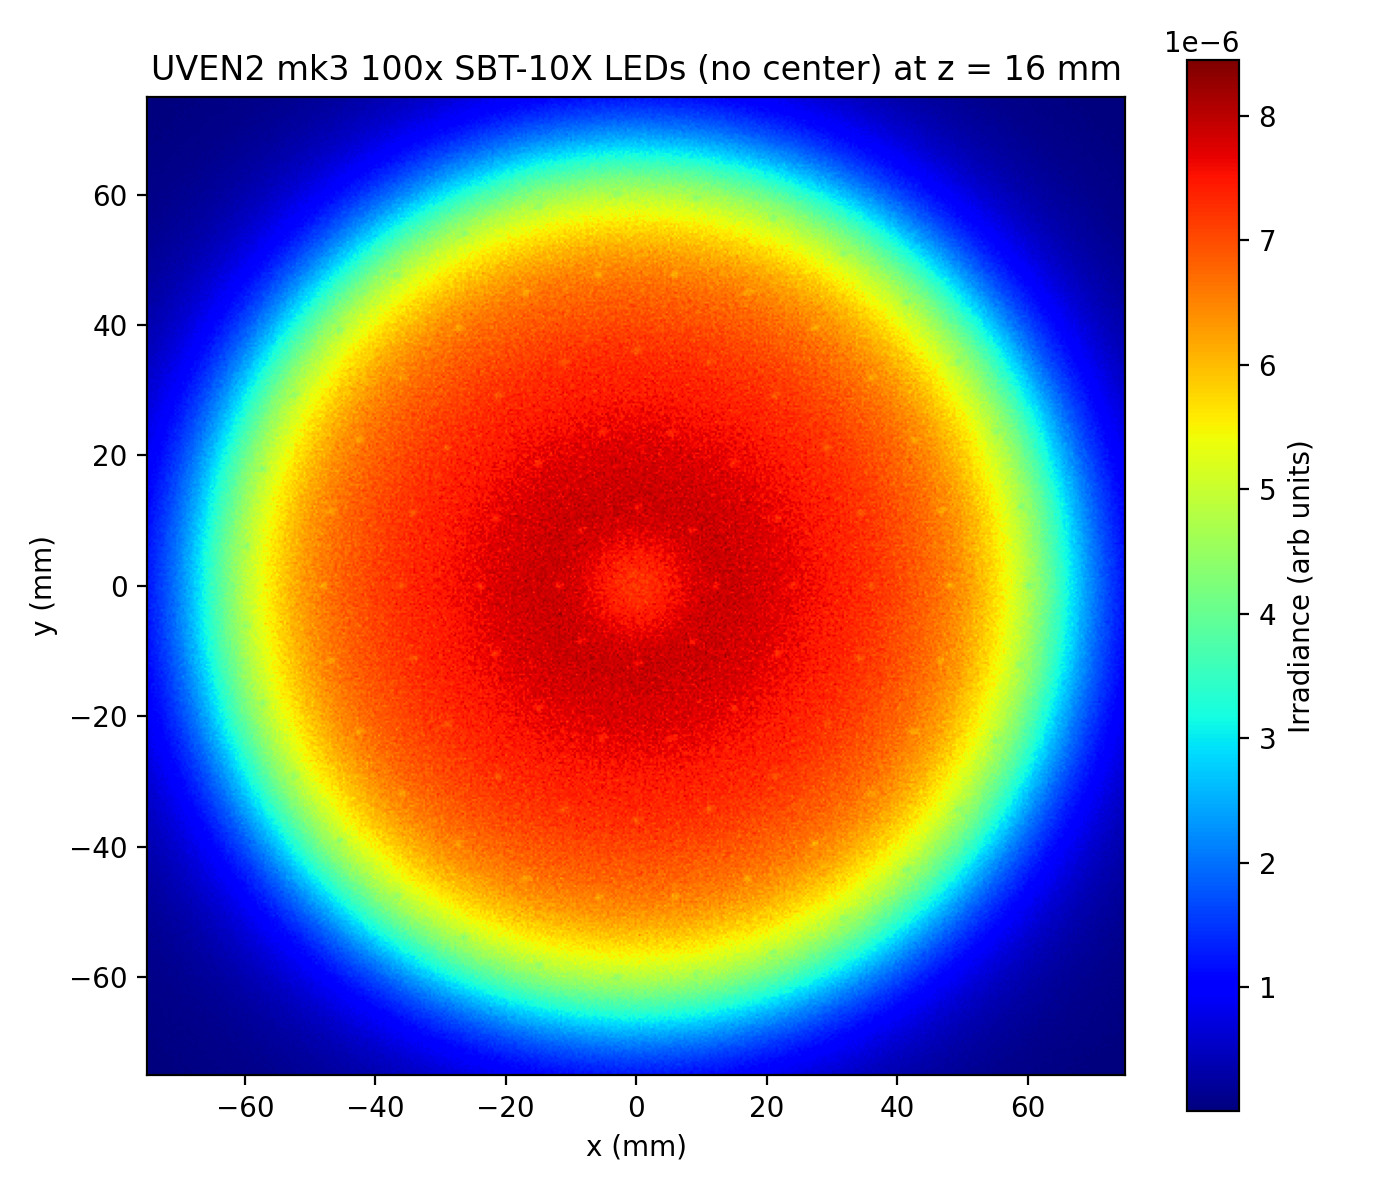
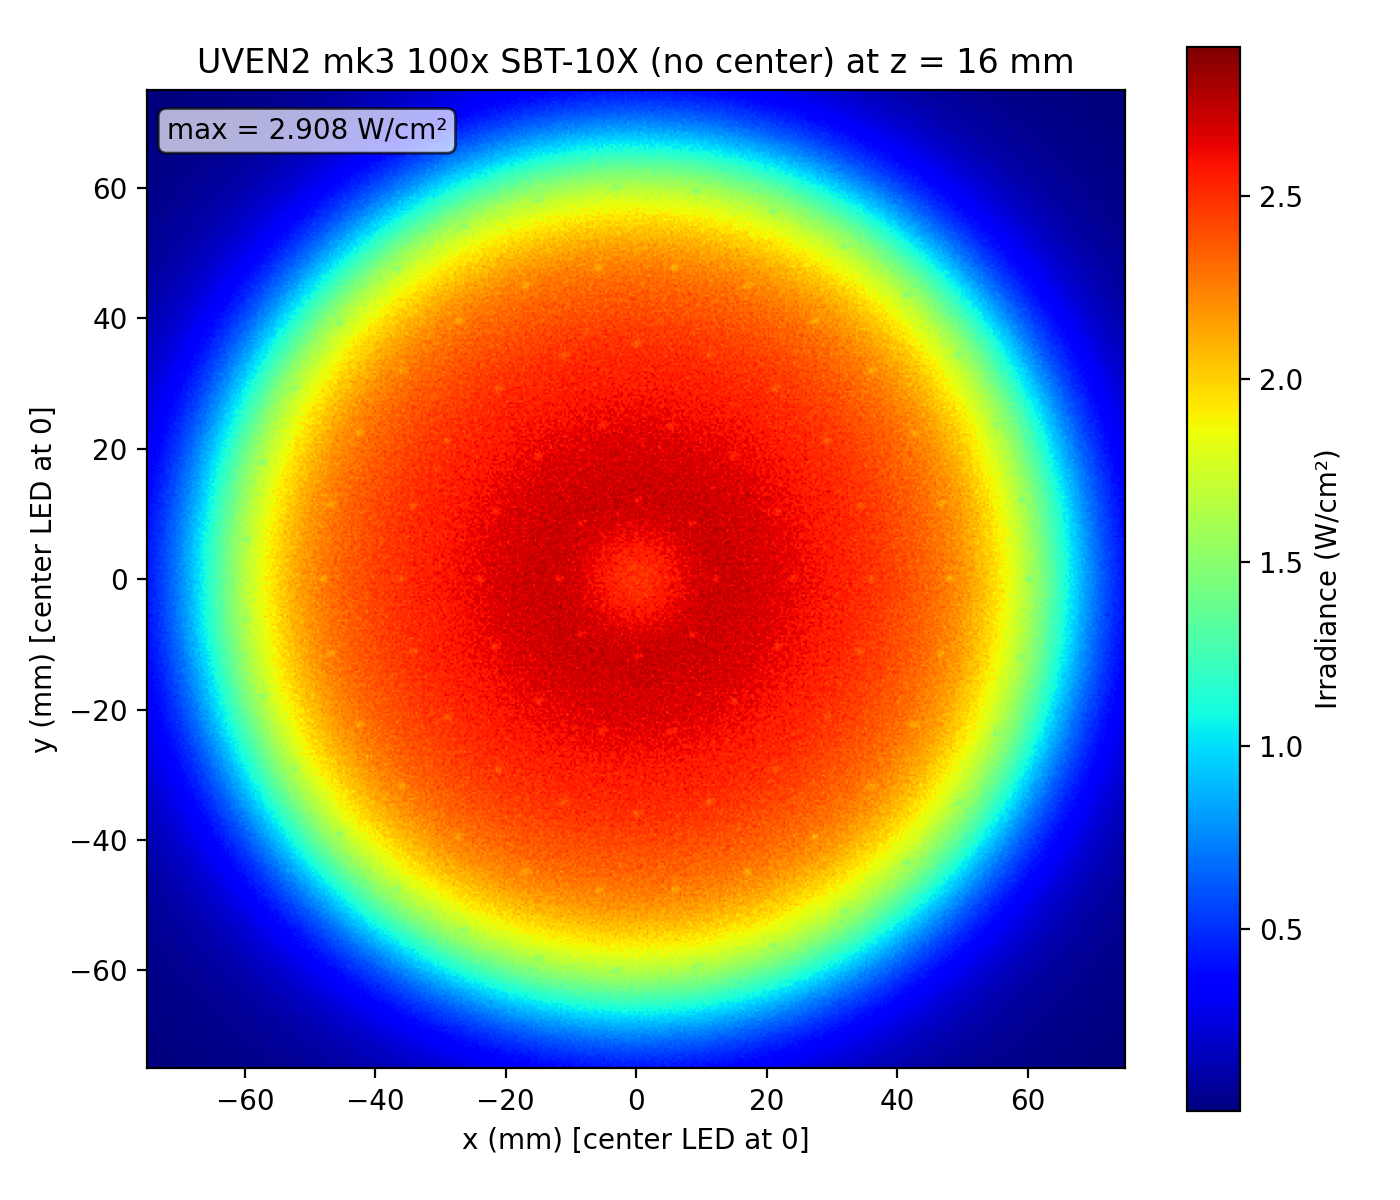
with absolut irradiance in W/cm^2 extracted from datasheet

diff --git a/src/light_distribution/sbt10x_zemax_ray_data_simulation_array.py b/src/light_distribution/sbt10x_zemax_ray_data_simulation_array.py
@@ -8,7 +8,14 @@ import matplotlib.pyplot as plt
 # -----------------------------
 # CONFIG
 # -----------------------------
-DISABLE_CENTER_LED = False  # <-- toggle this to enable/disable the center LED (ring 0)
+DISABLE_CENTER_LED = True  # toggle this to enable/disable the center LED (ring 0)
+
+# LED drive + radiometric power (365 nm version)
+LED_CURRENT_A = 2.15              # your drive current per LED
+LED_FLUX_1A_W_TYP = 1.6           # typical radiometric flux at 1 A from datasheet
+# Simple assumption: flux scales ~ linearly with current.
+# Change this if you want to use a different number (e.g. min 1.3 W or derated).
+LED_FLUX_PER_LED_W = LED_FLUX_1A_W_TYP * LED_CURRENT_A  # ≈ 3.44 W per LED at 2.15 A
 
 
 # -----------------------------
@@ -22,7 +29,6 @@ def generate_led_positions(disable_center_led=False):
     Optionally skip the center LED (ring_index == 0).
     """
 
-    # Same as in your KiCad script
     rings = {
         0: 1,
         1: 8,
@@ -76,6 +82,7 @@ def load_sdf(filename):
     Load a Zemax binary .SDF spectral ray file.
     Returns an array of shape (N, 8):
     [x, y, z, l, m, n, flux, wavelength]
+    flux column is initially in arbitrary units.
     """
     with open(filename, "rb") as f:
         header = f.read(8)
@@ -102,7 +109,8 @@ def load_sdf(filename):
             .format(number_of_rays, data.size)
         )
 
-    return data.reshape((-1, 8))
+    rays = data.reshape((-1, 8))
+    return rays
 
 
 def propagate_to_plane(rays, distance_mm):
@@ -144,10 +152,10 @@ def propagate_to_plane(rays, distance_mm):
 
 
 # -----------------------------
-# 3) Heatmap plotting + saving
+# 3) Heatmap plotting + saving (absolute irradiance)
 # -----------------------------
 
-def plot_and_save_heatmap(x, y, flux, distance_mm, bins=400,
+def plot_and_save_heatmap(x, y, flux_W, distance_mm, bins=400,
                           outfile_prefix="array_irradiance",
                           window_mm=150.0,
                           center_x_mm=100.0,
@@ -157,7 +165,8 @@ def plot_and_save_heatmap(x, y, flux, distance_mm, bins=400,
     recentered so that the center LED is at (0, 0).
 
     x, y are in mm in the original PCB coordinate system.
-    center_x_mm, center_y_mm define the center LED position in that system.
+    flux_W is in watts per ray.
+    Output is plotted in W/cm^2.
     """
 
     # Recenter: center LED goes to (0, 0)
@@ -170,27 +179,55 @@ def plot_and_save_heatmap(x, y, flux, distance_mm, bins=400,
     xmin, xmax = -half, half
     ymin, ymax = -half, half
 
-    H, xe, ye = np.histogram2d(
+    H_W, xe, ye = np.histogram2d(
         x_centered,
-        y_centered, bins=bins, range=[[xmin, xmax], [ymin, ymax]], weights=flux
+        y_centered,
+        bins=bins,
+        range=[[xmin, xmax], [ymin, ymax]],
+        weights=flux_W
     )
+
+    # Convert summed watts per bin -> irradiance
+    # Bin size in mm
+    dx = (xmax - xmin) / float(bins)
+    dy = (ymax - ymin) / float(bins)
+    area_mm2 = dx * dy
+
+    # W/mm^2
+    H_W_per_mm2 = H_W / area_mm2
+
+    # W/cm^2  (1 cm^2 = 100 mm^2)
+    H_W_per_cm2 = H_W_per_mm2 * 100.0
 
     fig, ax = plt.subplots(figsize=(7, 6))
     im = ax.imshow(
-        H.T,
+        H_W_per_cm2.T,
         origin="lower",
-        extent=[xe[0], xe[-1], ye[0], ye[-1]],
+        extent=[xmin, xmax, ymin, ymax],
         aspect="equal",
-        cmap="jet"  
+        cmap="jet"  # blue cold, red hot
     )
     cbar = fig.colorbar(im, ax=ax)
-    cbar.set_label("Irradiance (arb units)")
-    ax.set_xlabel("x (mm)")
-    ax.set_ylabel("y (mm)")
+    cbar.set_label("Irradiance (W/cm²)")
+    ax.set_xlabel("x (mm) [center LED at 0]")
+    ax.set_ylabel("y (mm) [center LED at 0]")
+
     if DISABLE_CENTER_LED:
-        ax.set_title("UVEN2 mk3 100x SBT-10X LEDs (no center) at z = {} mm".format(distance_mm))
+        title = "UVEN2 mk3 100x SBT-10X (no center) at z = {} mm"
     else:
-        ax.set_title("UVEN2 mk3 100x SBT-10X LEDs at z = {} mm".format(distance_mm))
+        title = "UVEN2 mk3 100x SBT-10X at z = {} mm"
+
+    ax.set_title(title.format(distance_mm))
+
+    # Optionally annotate max irradiance
+    max_irr = np.max(H_W_per_cm2)
+    ax.text(
+        0.02, 0.95,
+        "max = {:.3f} W/cm²".format(max_irr),
+        transform=ax.transAxes,
+        fontsize=10,
+        bbox=dict(boxstyle="round", facecolor="white", alpha=0.7)
+    )
 
     plt.tight_layout()
 
@@ -207,47 +244,56 @@ def plot_and_save_heatmap(x, y, flux, distance_mm, bins=400,
 # -----------------------------
 
 def main():
-    # Path to your single LED Zemax SDF file
-    sdf_path = "SBT-10_1000mA_#1-20200526-1_175000_5000000Rays_ZEMAX.sdf"  # change if needed
+    # download zemax sdf from: https://download.luminus.com/design-files/uv/SBT-10X/SBT-10X_Zx.zip
+    # Path to your single LED Zemax SDF file (generated at 1 A)
+    sdf_path = "SBT-10_1000mA_#1-20200526-1_175000_5000000Rays_ZEMAX.sdf"
 
     # 1) LED positions from the KiCad ring script
     led_positions = generate_led_positions(disable_center_led=DISABLE_CENTER_LED)
     print("Number of LEDs used in simulation:", len(led_positions))
 
-    # 2) Load single LED ray data once
+    # 2) Load single LED ray data once (flux still in arbitrary units)
     rays = load_sdf(sdf_path)
     print("Loaded rays for single LED:", rays.shape)
+
+    # 2a) Normalize SDF flux so sum(flux) == LED_FLUX_PER_LED_W at 2.15 A
+    total_weight = np.sum(rays[:, 6])
+    scale = LED_FLUX_PER_LED_W / total_weight
+    rays[:, 6] *= scale  # flux column now in absolute watts for 2.15 A drive
+
+    print("Total radiometric flux per LED set to {:.3f} W at {:.2f} A"
+          .format(LED_FLUX_PER_LED_W, LED_CURRENT_A))
 
     # 3) Distance sweep: 10 mm to 20 mm (inclusive) in 1 mm steps
     for distance_mm in range(10, 21):
         print("Simulating distance: {} mm".format(distance_mm))
 
-        # Propagate rays for single LED to this plane
-        x_single, y_single, flux_single = propagate_to_plane(
+        # Propagate rays for single LED to this plane (flux is in W)
+        x_single, y_single, flux_single_W = propagate_to_plane(
             rays, distance_mm=float(distance_mm)
         )
 
         # Replicate pattern for all LEDs
         all_x = []
         all_y = []
-        all_flux = []
+        all_flux_W = []
 
         for ref, x_led, y_led, angle_deg in led_positions:
             all_x.append(x_single + x_led)
             all_y.append(y_single + y_led)
-            all_flux.append(flux_single)
+            all_flux_W.append(flux_single_W)
 
         all_x = np.concatenate(all_x)
         all_y = np.concatenate(all_y)
-        all_flux = np.concatenate(all_flux)
+        all_flux_W = np.concatenate(all_flux_W)
 
         print("  Total rays at plane: {}".format(all_x.size))
 
-        # Plot and save PNG for this distance
+        # Plot and save PNG for this distance (absolute irradiance in W/cm^2)
         plot_and_save_heatmap(
             all_x,
             all_y,
-            all_flux,
+            all_flux_W,
             distance_mm=distance_mm,
             bins=500,
             outfile_prefix="array_irradiance"
